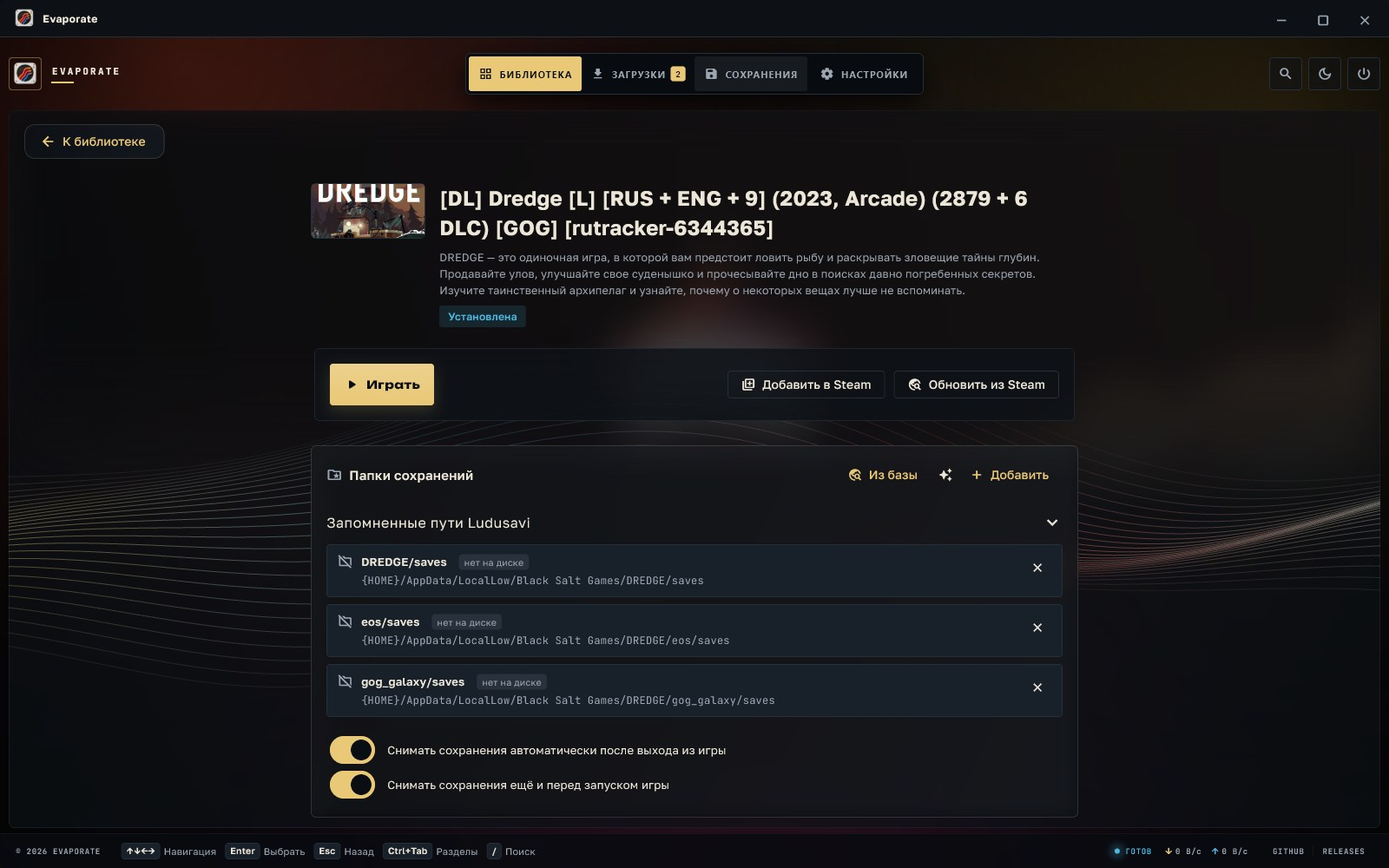
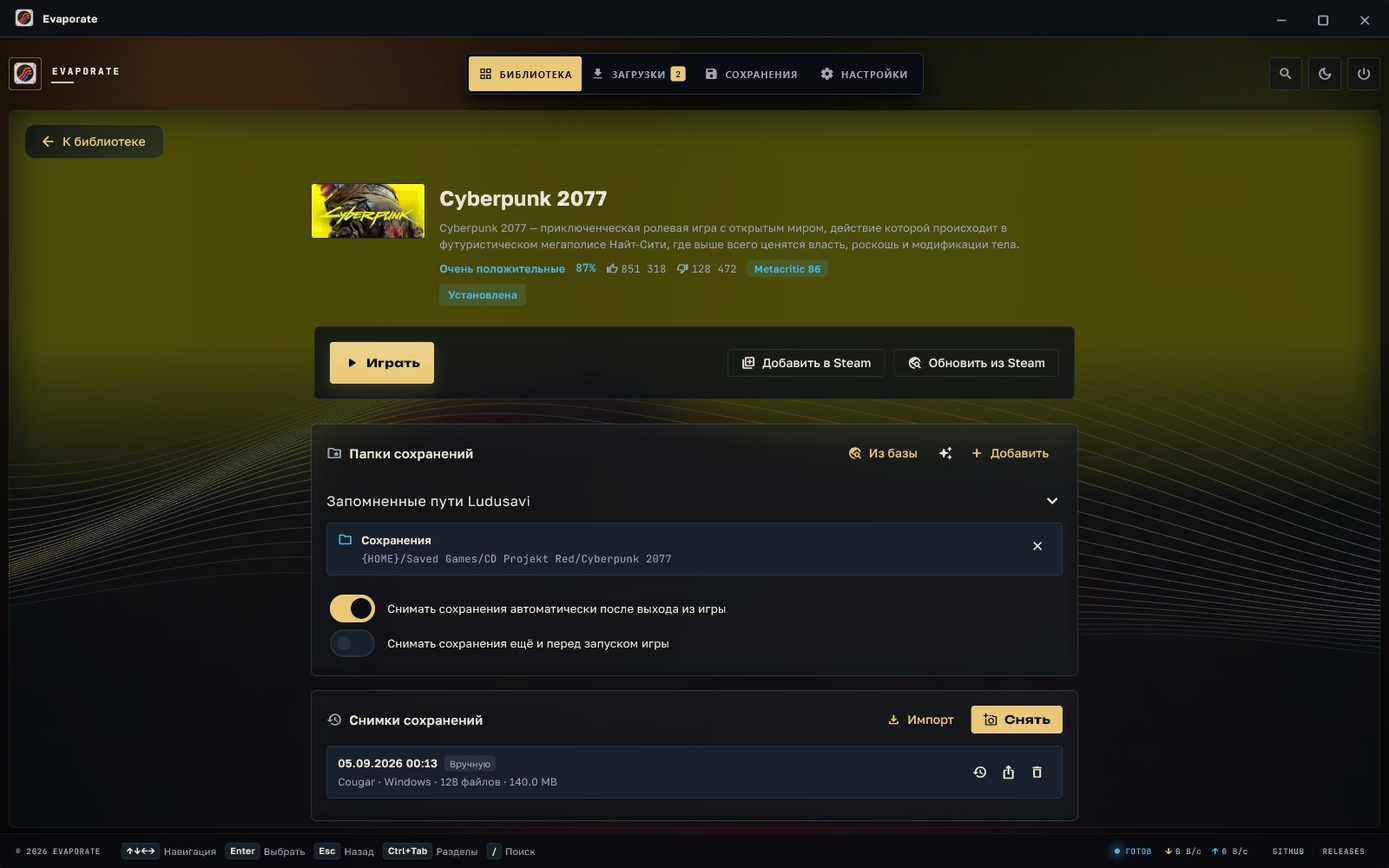
Довести оценку до собранной библиотеки и дать плитке снимка один голос
«Обновить метаданные» отбирала игры по двум признакам — нет `appid` или
не искали пути сохранений, — и ни одного из них у сложившейся библиотеки
нет: цепочка у неё пройдена до конца. Кнопка отвечала «метаданные есть у
всех игр», а оценку, вышедшую версией раньше, приходилось добывать по
одной игре на её странице. Теперь нехваткой считается и пустая оценка, и
спрашивают об этом все три места разом, через `needsSteam`. Прежде
третье смотрело только на `appid`: игра с ним, но без оценки, сняла бы
маркер путей сохранений и ушла бы искать пути вместо Steam.

Плитку снимка сохранений диктор читал дважды. `Semantics` с готовой
фразой не заменяет подписи детей, а встаёт перед ними, и следом шли те
же дата, источник, устройство и размер — четырьмя объявлениями, ровно
теми, от которых фраза и была написана избавить. Прячет их теперь
`ExcludeSemantics` внутри строки, вокруг одних подписей: снаружи, на
всей плитке, он унёс бы вместе с лишним и три действия — та же ловушка,
на которой уже теряла нажатие плитка игры.

Нашлось это тестом, которого у плитки не было вовсе: сорок пять строк, и
среди них безвозвратное удаление, не проверял никто.

Заодно: комментарий про повтор поиска метаданных вернулся от соседнего
метода к своему, а снимок страницы игры в README и на сайте переснят —
на прежнем оценки ещё не было.

diff --git a/test/snapshot_tile_test.dart b/test/snapshot_tile_test.dart
@@ -1,0 +1,134 @@
+import 'package:evaporate/core/format.dart';
+import 'package:evaporate/l10n/app_localizations.dart';
+import 'package:evaporate/models/save_snapshot.dart';
+import 'package:evaporate/ui/library/saves/snapshot_tile.dart';
+import 'package:evaporate/ui/theme.dart';
+import 'package:flutter/material.dart';
+import 'package:flutter/semantics.dart';
+import 'package:flutter_test/flutter_test.dart';
+
+/// Плитка снимка сохранений на странице игры.
+///
+/// Три действия у неё безвозвратные в разной степени, и самое опасное —
+/// удаление. Спрашивает о нём вызывающий, а плитка отвечает за другое: что
+/// клавиши на месте, подписаны и зовут каждая своё. Перепутай их местами —
+/// подтверждение спросят об одном, а сделают другое.
+void main() {
+  final snapshot = SaveSnapshot(
+    id: 's1',
+    gameId: 'g1',
+    gameTitle: 'Игра',
+    createdAt: DateTime(2026, 9, 14, 3, 20),
+    deviceName: 'Cougar',
+    platform: currentPlatformKey(),
+    sizeBytes: 140 * 1024 * 1024,
+    fileCount: 128,
+    archivePath: '',
+    rules: const [],
+  );
+
+  var restored = 0;
+  var exported = 0;
+  var deleted = 0;
+
+  setUp(() => restored = exported = deleted = 0);
+
+  Future<void> show(WidgetTester tester) => tester.pumpWidget(
+    MaterialApp(
+      theme: EvaporateTheme.dark(),
+      localizationsDelegates: L.localizationsDelegates,
+      supportedLocales: L.supportedLocales,
+      locale: const Locale('ru'),
+      home: Scaffold(
+        body: SnapshotTile(
+          snapshot: snapshot,
+          onRestore: () => restored++,
+          onExport: () => exported++,
+          onDelete: () => deleted++,
+        ),
+      ),
+    ),
+  );
+
+  testWidgets('снимок называет себя датой, устройством и объёмом', (
+    tester,
+  ) async {
+    await show(tester);
+
+    expect(find.text(formatDateTime(snapshot.createdAt)), findsOneWidget);
+    expect(find.text('Вручную'), findsOneWidget);
+    expect(find.textContaining('Cougar'), findsOneWidget);
+    expect(find.textContaining('128 файлов'), findsOneWidget);
+    expect(find.textContaining('140.0 MB'), findsOneWidget);
+  });
+
+  testWidgets('все три действия на месте и подписаны', (tester) async {
+    await show(tester);
+
+    expect(find.byTooltip('Восстановить'), findsOneWidget);
+    expect(find.byTooltip('Экспортировать файл'), findsOneWidget);
+    expect(find.byTooltip('Удалить'), findsOneWidget);
+  });
+
+  testWidgets('каждая клавиша зовёт своё и только своё', (tester) async {
+    await show(tester);
+
+    await tester.tap(find.byTooltip('Восстановить'));
+    expect([restored, exported, deleted], [1, 0, 0]);
+
+    await tester.tap(find.byTooltip('Экспортировать файл'));
+    expect([restored, exported, deleted], [1, 1, 0]);
+
+    await tester.tap(find.byTooltip('Удалить'));
+    expect([restored, exported, deleted], [1, 1, 1]);
+  });
+
+  /// Подписи всех узлов дерева доступности — тем же обходом, что и в
+  /// `semantics_test.dart`: нужен не поиск известной подписи, а то, как
+  /// плитка звучит целиком.
+  List<String> spokenLabels(WidgetTester tester) {
+    final labels = <String>[];
+    void walk(SemanticsNode node) {
+      if (node.label.isNotEmpty) labels.add(node.label);
+      node.visitChildren((child) {
+        walk(child);
+        return true;
+      });
+    }
+
+    walk(tester.binding.rootElement!.renderObject!.debugSemantics!);
+    return labels;
+  }
+
+  // Дата, источник, размер и число файлов лежат отдельными подписями, и
+  // диктор читал бы их четырьмя объявлениями подряд. А вот клавиши обязаны
+  // остаться своими: до них надо доходить и нажимать по отдельности.
+  testWidgets('диктору плитка идёт одной фразой, а клавиши — врозь', (
+    tester,
+  ) async {
+    final handle = tester.ensureSemantics();
+    await show(tester);
+
+    // Ровно одна подпись, и ровно та: подписи внутри плитки повторяли бы
+    // уже сказанное, а `contains` этого не заметил бы.
+    expect(spokenLabels(tester), [
+      'Снимок от ${formatDateTime(snapshot.createdAt)}, Вручную, файлов: 128',
+    ]);
+
+    // А действия обязаны пережить это сокращение: обёртка, скрывающая
+    // лишние объявления, легко уносит вместе с ними и нажатие.
+    for (final tooltip in const [
+      'Восстановить',
+      'Экспортировать файл',
+      'Удалить',
+    ]) {
+      final data = tester
+          .getSemantics(find.byTooltip(tooltip))
+          .getSemanticsData();
+      expect(data.tooltip, tooltip, reason: tooltip);
+      expect(data.hasAction(SemanticsAction.tap), isTrue, reason: tooltip);
+    }
+
+    handle.dispose();
+  });
+}

diff --git a/lib/ui/library/saves/snapshot_tile.dart b/lib/ui/library/saves/snapshot_tile.dart
@@ -26,6 +26,13 @@ class SnapshotTile extends StatelessWidget {
     // Дата, источник, размер и число файлов лежат отдельными подписями, и
     // диктор читал бы их четырьмя объявлениями подряд. Кнопки при этом
     // остаются своими: до них надо доходить и нажимать по отдельности.
+    //
+    // Отсюда и место `ExcludeSemantics` — внутри строки, вокруг одних
+    // подписей. Снаружи, на всей плитке, он унёс бы вместе с лишними
+    // объявлениями и три действия: та же ловушка, на которой уже теряла
+    // нажатие плитка игры. А без него подпись не заменяет детей, а лишь
+    // встаёт перед ними, и диктор читает всё то же самое — только теперь
+    // пять раз вместо четырёх.
     return Semantics(
       label: L
           .of(context)
@@ -45,42 +52,44 @@ class SnapshotTile extends StatelessWidget {
         child: Row(
           children: [
             Expanded(
-              child: Column(
-                crossAxisAlignment: CrossAxisAlignment.start,
-                children: [
-                  Row(
-                    children: [
-                      Text(
-                        formatDateTime(snapshot.createdAt),
-                        style: const TextStyle(
-                          fontSize: 13,
-                          fontWeight: FontWeight.w600,
+              child: ExcludeSemantics(
+                child: Column(
+                  crossAxisAlignment: CrossAxisAlignment.start,
+                  children: [
+                    Row(
+                      children: [
+                        Text(
+                          formatDateTime(snapshot.createdAt),
+                          style: const TextStyle(
+                            fontSize: 13,
+                            fontWeight: FontWeight.w600,
+                          ),
                         ),
-                      ),
-                      const SizedBox(width: 8),
-                      SaveTag(
-                        text: snapshotOriginLabel(
-                          L.of(context),
-                          snapshot.origin,
+                        const SizedBox(width: 8),
+                        SaveTag(
+                          text: snapshotOriginLabel(
+                            L.of(context),
+                            snapshot.origin,
+                          ),
+                          color: snapshot.origin == SnapshotOrigin.imported
+                              ? context.colors.primary
+                              : context.colors.textSecondary,
                         ),
-                        color: snapshot.origin == SnapshotOrigin.imported
-                            ? context.colors.primary
-                            : context.colors.textSecondary,
-                      ),
-                    ],
-                  ),
-                  const SizedBox(height: 3),
-                  Text(
-                    '${snapshot.deviceName} · '
-                    '${platformLabel(snapshot.platform)} · '
-                    '${L.of(context).filesCount(snapshot.fileCount)} · '
-                    '${formatBytes(snapshot.sizeBytes)}',
-                    style: TextStyle(
-                      fontSize: 12,
-                      color: context.colors.textSecondary,
+                      ],
                     ),
-                  ),
-                ],
+                    const SizedBox(height: 3),
+                    Text(
+                      '${snapshot.deviceName} · '
+                      '${platformLabel(snapshot.platform)} · '
+                      '${L.of(context).filesCount(snapshot.fileCount)} · '
+                      '${formatBytes(snapshot.sizeBytes)}',
+                      style: TextStyle(
+                        fontSize: 12,
+                        color: context.colors.textSecondary,
+                      ),
+                    ),
+                  ],
+                ),
               ),
             ),
             IconButton(

diff --git a/lib/bloc/library/library_metadata.dart b/lib/bloc/library/library_metadata.dart
@@ -161,12 +161,6 @@ extension _LibraryMetadata on LibraryBloc {
     }
   }
 
-  /// Просит поискать метаданные заново для всех игр, которым их не хватает.
-  ///
-  /// Маркер «уже пробовали» снимается только здесь и только по нажатию
-  /// человека. Автоматически он не снимается никогда: иначе приложение при
-  /// каждом запуске ходило бы в Steam за играми, которых там попросту нет,
-  /// — а таких в торрент-библиотеке половина.
   /// Заводит игру в Steam сторонним ярлыком.
   ///
   /// Событием, а не вызовом из виджета: запись идёт в чужой файл и
@@ -246,15 +240,35 @@ extension _LibraryMetadata on LibraryBloc {
     }
   }
 
+  /// Просит поискать метаданные заново для всех игр, которым их не хватает.
+  ///
+  /// Маркер «уже пробовали» снимается только здесь и только по нажатию
+  /// человека. Автоматически он не снимается никогда: иначе приложение при
+  /// каждом запуске ходило бы в Steam за играми, которых там попросту нет,
+  /// — а таких в торрент-библиотеке половина.
+  ///
+  /// Нехватка — это и пустая оценка, а не только пустой `appid`. Библиотеки
+  /// собирались до того, как появились обзоры, и у сложившейся библиотеки
+  /// цепочка пройдена до конца: без этой ветки кнопка отвечала бы
+  /// «метаданные есть у всех», а оценку пришлось бы добывать по одной игре
+  /// на её странице. Игру, у которой в Steam и правда нет ни обзоров, ни
+  /// Metacritic, кнопка будет переспрашивать каждый раз — отличить «сходили
+  /// и не нашли» от «не ходили» по пустому полю нечем, а нажатие тут всегда
+  /// человеческое.
   Future<void> _onMetadataRetry(
     MetadataRetryRequested event,
     Emitter<LibraryState> emit,
   ) async {
+    // Сводить в Steam или только искать пути: у похода в Steam своё событие,
+    // и промахнись отбор — игра снимет не тот маркер и уйдёт не туда.
+    bool needsSteam(Game game) =>
+        game.steamAppId == null || game.rating == null;
+
     final pending = [
       for (final game in state.games)
         if (game.isInstalled &&
             game.installDir != null &&
-            (game.steamAppId == null || !game.savePathsLookupAttempted))
+            (needsSteam(game) || !game.savePathsLookupAttempted))
           game,
     ];
     if (pending.isEmpty) {
@@ -264,7 +278,7 @@ extension _LibraryMetadata on LibraryBloc {
 
     for (final game in pending) {
       _replaceGame(
-        game.steamAppId == null
+        needsSteam(game)
             ? game.copyWith(steamLookupAttempted: false)
             : game.copyWith(savePathsLookupAttempted: false),
         emit,
@@ -277,7 +291,7 @@ extension _LibraryMetadata on LibraryBloc {
       final current = state.gameById(game.id);
       if (current == null) continue;
       add(
-        current.steamAppId == null
+        needsSteam(current)
             ? SteamLookupRequested(current, automatic: true)
             : SavePathsLookupRequested(current, automatic: true),
       );

diff --git a/test/automatic_metadata_test.dart b/test/automatic_metadata_test.dart
@@ -374,6 +374,29 @@ void main() {
       expect(game.rating!.metacritic, 86);
     });
 
+    // Библиотека складывалась до того, как появились обзоры: у её игр
+    // пройдена вся цепочка, и без отдельной ветки в отборе кнопка
+    // «Обновить метаданные» отвечала бы «есть у всех», а оценку пришлось бы
+    // добывать по одной игре на её странице.
+    test(
+      'кнопка обновления доводит оценку до игры, где всё остальное есть',
+      () async {
+        await add();
+        final ready = await complete();
+        expect(ready.steamAppId, isNotNull);
+        expect(ready.savePathsLookupAttempted, isTrue);
+
+        // Такой игра пришла бы из библиотеки, записанной прежней версией.
+        library.add(GameUpdated(ready.copyWith(rating: null)));
+        await _wait(library, (s) => s.gameById('game')?.rating == null);
+
+        library.add(const MetadataRetryRequested());
+        await _wait(library, (s) => s.gameById('game')?.rating != null);
+
+        expect(library.state.gameById('game')!.rating!.positive, 90);
+      },
+    );
+
     // Неудачное обновление не должно обеднять страницу: было что
     // показать — пусть и остаётся, пока не появится новое.
     test('пустой ответ не стирает уже показанную оценку', () async {

diff --git a/site/index.html b/site/index.html
@@ -99,9 +99,9 @@
         <figure class="shot">
           <a class="shot-zoom" href="assets/screenshots/game.jpg">
             <img src="assets/screenshots/game.jpg" width="1600" height="1000" loading="lazy" decoding="async"
-                 alt="Страница игры: обложка приглушённым фоном, кнопки «Играть», «Добавить в Steam» и список папок сохранений" />
+                 alt="Страница игры: обложка приглушённым фоном, оценка Steam с долей обзоров, кнопки «Играть», «Добавить в Steam» и список папок сохранений" />
           </a>
-          <figcaption><b>Страница игры.</b> Обложка уходит под шапку размытым фоном. Рядом — запуск, ярлык в Steam и папки сохранений в виде шаблонов пути.</figcaption>
+          <figcaption><b>Страница игры.</b> Обложка уходит под шапку размытым фоном, под описанием — оценка Steam с долей обзоров. Рядом запуск, ярлык в Steam и папки сохранений в виде шаблонов пути.</figcaption>
         </figure>
 
         <figure class="shot">

diff --git a/README.md b/README.md
@@ -18,13 +18,14 @@
 Не установленные» и сетка вертикальных обложек. Цвет в окно приносят сами
 игры: подсветка берёт оттенок у выбранной.
 
-![Страница игры: обложка приглушённым фоном, кнопки запуска и папки сохранений](site/assets/screenshots/game.jpg)
+![Страница игры: обложка приглушённым фоном, оценка Steam, кнопки запуска и папки сохранений](site/assets/screenshots/game.jpg)
 
 **Страница игры.** Обложка уходит под шапку размытым фоном и тает к середине
-экрана — страница отвечает, чья она, раньше, чем дочитаешь название. Слева
-«Играть», справа «Добавить в Steam» и «Обновить из Steam». Ниже — папки
-сохранений: пути показаны шаблонами (`{HOME}/...`), потому что так они и
-хранятся, и потому переносятся на другую машину.
+экрана — страница отвечает, чья она, раньше, чем дочитаешь название. Под
+описанием — оценка: подпись Steam словами, доля положительных обзоров, оба
+счётчика и Metacritic. Слева «Играть», справа «Добавить в Steam» и «Обновить
+из Steam». Ниже — папки сохранений: пути показаны шаблонами (`{HOME}/...`),
+потому что так они и хранятся, и потому переносятся на другую машину.
 
 ![Загрузки: показания скорости, очередь и график хода каждой задачи](site/assets/screenshots/downloads.jpg)
 

diff --git a/README.en.md b/README.en.md
@@ -18,12 +18,13 @@ key, and time played. Below it the All / Installed / Not installed shelves and
 a grid of portrait covers. The colour in the window comes from the games
 themselves — the ambient light takes its hue from the selected one.
 
-![Game page: the cover as a dimmed backdrop, launch buttons, and save folders](site/assets/screenshots/game.jpg)
+![Game page: the cover as a dimmed backdrop, the Steam rating, launch buttons, and save folders](site/assets/screenshots/game.jpg)
 
 **Game page.** The cover runs under the header as a blurred backdrop and fades
 out by the middle of the screen, so the page answers whose it is before you
-finish reading the title. Play on the left; Add to Steam and Refresh from Steam
-on the right. Below, the save folders — paths are shown as templates
+finish reading the title. Under the description sits the rating: Steam's verdict
+in words, the share of positive reviews, both counts, and Metacritic. Play on
+the left; Add to Steam and Refresh from Steam on the right. Below, the save folders — paths are shown as templates
 (`{HOME}/...`), because that is how they are stored, and that is why they
 travel to another machine.
 
